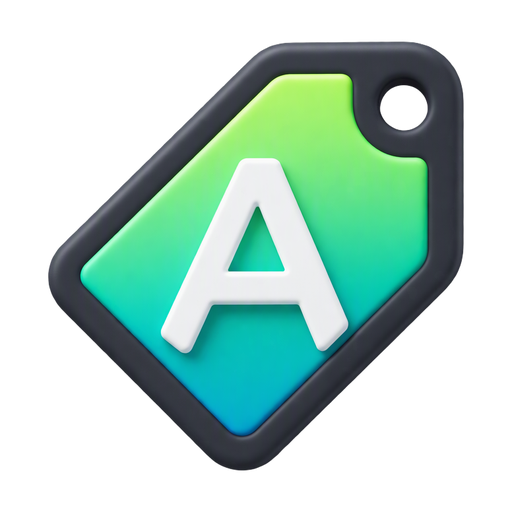
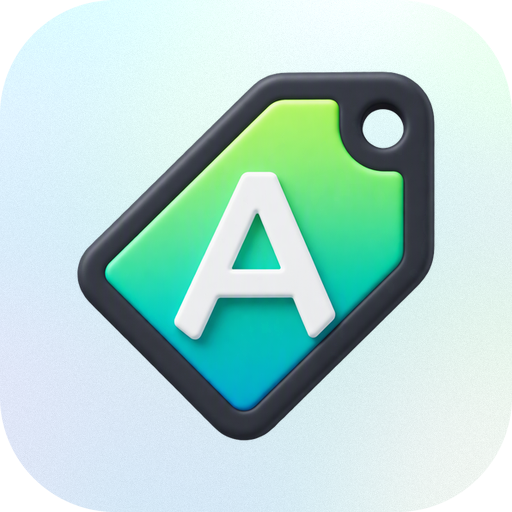
style: 为扩展图标添加毛玻璃圆角背景
- 浅色磨砂底加青绿柔和光斑与细噪点，四角采用 macOS 风格 squircle 圆角，提升在 Raycast 列表中的辨识度
- 保留透明底原图为 icon-transparent.png，供宣传图悬浮展示使用
- 新增 gen_icon_bg.py 生成脚本，宣传图脚本改为引用透明底图标

diff --git a/scripts/gen_icon_bg.py b/scripts/gen_icon_bg.py
@@ -1,0 +1,74 @@
+"""给扩展图标加背景：毛玻璃风格（浅色磨砂底 + 柔和彩色光斑 + 细噪点）。
+
+输入 assets/icon-transparent.png（透明底原始图标），输出覆盖 assets/icon.png。
+"""
+import numpy as np
+from PIL import Image, ImageDraw, ImageFilter
+
+ROOT = "/Users/xj/Github/raycast-extension-app-tags/reat"
+SRC = f"{ROOT}/assets/icon-transparent.png"
+OUT = f"{ROOT}/assets/icon.png"
+SIZE = 512
+ICON_SCALE = 0.86  # 图标占画布比例，四周留出呼吸空间
+
+rng = np.random.default_rng(20260929)
+yy, xx = np.mgrid[0:SIZE, 0:SIZE].astype(np.float32)
+
+# ---------- 底层：柔和彩色光斑（取自标签配色） ----------
+# 低分辨率随机场插值放大，形成自然的大块柔和色斑
+LOW = 6
+palette = np.array(
+    [
+        [168, 235, 210],  # 浅青绿
+        [150, 220, 245],  # 浅青蓝
+        [190, 245, 200],  # 浅绿
+        [200, 210, 250],  # 浅靛蓝
+        [235, 245, 235],  # 近白绿
+    ],
+    dtype=np.float32,
+)
+field = palette[rng.integers(0, len(palette), size=(LOW, LOW))]
+blobs = Image.fromarray(field.astype(np.uint8), "RGB").resize(
+    (SIZE, SIZE), Image.BICUBIC
+)
+blobs = blobs.filter(ImageFilter.GaussianBlur(60))
+bg = np.asarray(blobs, dtype=np.float32)
+
+# 中心补一层亮青绿光晕，让标签后方更通透
+d = np.sqrt((xx - SIZE * 0.45) ** 2 + (yy - SIZE * 0.42) ** 2) / (SIZE * 0.55)
+fall = np.clip(1 - d, 0, 1) ** 2 * 0.25
+glow = np.array([200, 245, 225], dtype=np.float32)
+bg = bg + (glow[None, None, :] - bg) * fall[..., None]
+
+# ---------- 磨砂层：半透明白 + 顶部高光 + 细噪点 ----------
+frost = np.array([244, 247, 246], dtype=np.float32)
+bg = bg * 0.45 + frost[None, None, :] * 0.55
+
+# 顶部向下渐隐的高光，模拟玻璃受光
+sheen = np.clip(1 - yy / (SIZE * 0.9), 0, 1) ** 2 * 18
+bg += sheen[..., None]
+
+# 细噪点（磨砂颗粒感）
+noise = rng.normal(0, 2.2, (SIZE, SIZE, 1))
+bg += noise
+
+img = Image.fromarray(np.clip(bg, 0, 255).astype(np.uint8), "RGB").convert("RGBA")
+
+# ---------- 贴上标签图标 ----------
+icon = Image.open(SRC).convert("RGBA")
+inner = int(SIZE * ICON_SCALE)
+icon = icon.resize((inner, inner), Image.LANCZOS)
+offset = (SIZE - inner) // 2
+img.paste(icon, (offset, offset), icon)
+
+# ---------- 圆角（macOS 风格 squircle，约 22.5% 半径，4x 超采样抗锯齿） ----------
+SS = 4
+mask = Image.new("L", (SIZE * SS, SIZE * SS), 0)
+ImageDraw.Draw(mask).rounded_rectangle(
+    [0, 0, SIZE * SS - 1, SIZE * SS - 1], radius=int(SIZE * 0.225 * SS), fill=255
+)
+mask = mask.resize((SIZE, SIZE), Image.LANCZOS)
+img.putalpha(mask)
+
+img.save(OUT)
+print("saved:", OUT)

diff --git a/scripts/gen_metadata.py b/scripts/gen_metadata.py
@@ -7,7 +7,7 @@ import numpy as np
 from PIL import Image, ImageDraw, ImageFilter, ImageFont
 
 ROOT = "/Users/xj/Github/raycast-extension-app-tags/reat"
-ICON = f"{ROOT}/assets/icon.png"
+ICON = f"{ROOT}/assets/icon-transparent.png"  # 透明底图标，用于悬浮展示
 OUT = f"{ROOT}/metadata/app-tags-1.png"
 W, H = 2000, 1250
 
